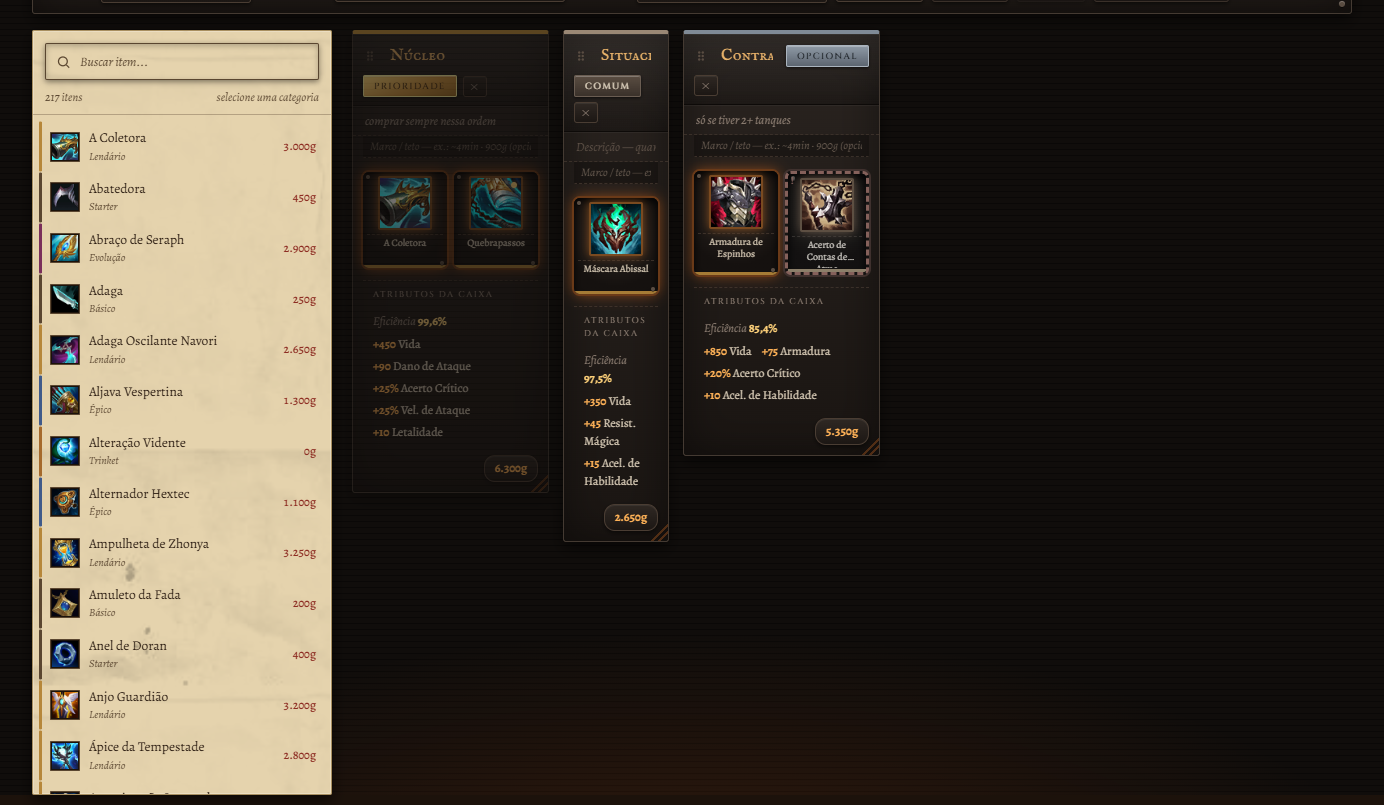
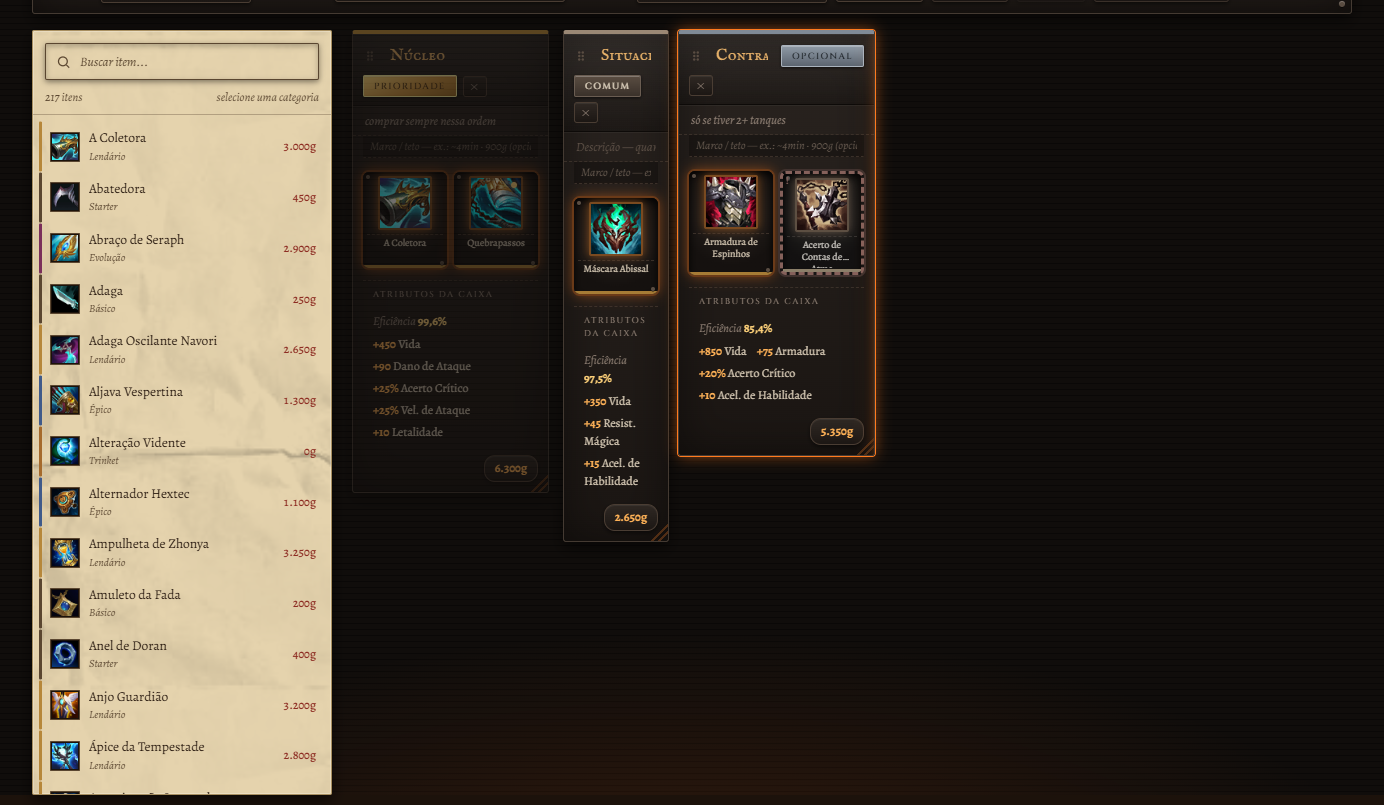
F9-T7b: marcador de brasa ao arrastar categoria (barra com brilho, vão e borda acesa na caixa alvo, como nos moldes)

Changed region(s): [[0.466, 0.0311, 0.6525, 0.5901], [0.1864, 0.559, 0.2175, 0.5901]]

diff --git a/index.html b/index.html
@@ -3600,6 +3600,16 @@ body:not(.editando) .slot-vazio { opacity: .35; }
 .som-opt input:disabled + span { opacity: .45; }
 .som-sep { border-top: 1px dashed #3a3029; margin: 4px 0; }
 body.forja .som-menu { border-top-color: #ff7a1e; }
+
+/* ---- Fase 9, T7b: marcador de brasa para a categoria, igual ao dos moldes (Leo, 15/09/2026) ---- */
+body.forja .build-cat.drop-before::before, body.forja .build-cat.drop-after::after {
+  width: 4px; background: var(--forja-brasa); border-radius: 2px;
+  box-shadow: 0 0 10px 2px var(--forja-brasa-glow), 0 0 22px var(--forja-brasa-glow);
+}
+body.forja .build-cat.drop-before::before { left: -9px; }
+body.forja .build-cat.drop-after::after { right: -9px; }
+body.forja .build-cat.drop-before { transform: translateX(5px); box-shadow: inset 0 1px 0 rgba(255,255,255,.05), inset 0 0 40px rgba(0,0,0,.45), 0 0 0 1px var(--forja-brasa), 0 0 16px var(--forja-brasa-glow); }
+body.forja .build-cat.drop-after  { transform: translateX(-5px); box-shadow: inset 0 1px 0 rgba(255,255,255,.05), inset 0 0 40px rgba(0,0,0,.45), 0 0 0 1px var(--forja-brasa), 0 0 16px var(--forja-brasa-glow); }
 </style>
 </head>
 <body>

diff --git a/CHECKPOINT.md b/CHECKPOINT.md
@@ -25,7 +25,7 @@ Especificação do Leo (15/09/2026, com docs/amostras de referência `gramatica-
 
 - **T6 — duplo clique de verdade + canais de som** (Leo, 15/09/2026, com prints: "a função de duplo clique não está funcionando… e precisa adicionar mais opções de mute, tenho amigos que mutaram tudo só para mutar o shopkeeper; o ícone de sino não ajuda"). (1) Causa do duplo clique: o primeiro clique redesenhava a lista inteira, o segundo clique caía num elemento novo e o navegador não conta como dblclick (o teste da T1 passou porque disparou o evento sintético). Agora o clique só troca a seleção no lugar e redesenha o resumo. (2) Som: o sino virou **alto-falante** (ondas somem quando mudo, meia onda quando há canal mudo) e o clique abre um **painel**: Som geral, e três canais — **Interface** (cliques, hover, chips, abrir/fechar), **Forja** (moldes, martelo, item na build) e **Lojista** (falas) — guardados em `som.canais`; `Som.tocar` consulta o canal (`shopkeeper_*`/lojista → Lojista; `build_*`/`ui_build*` → Forja; o resto → Interface). Mapa de áudio atualizado. Verificado no navegador embutido com **duplo clique real** (mouse do painel, não evento sintético): em Minhas abre a forja, em Públicas abre a visualização temporária; painel de som abre, Lojista mudo bloqueia `shopkeeper_tag_open_*` enquanto `ui_catalog_tag_select` toca, religar volta; `som.canais` gravado; 0 erros de console. Captura `docs/screenshots/fase9-tarefa6-som.png`. Aprovado pelo Leo em 15/09/2026. Commit "F9-T6".
 
-- **T7 — arrastar categoria solta em qualquer ponto** (Leo, 15/09/2026, com print: "o drag and drop também vale para as categorias, tentei e não foi"). Diagnóstico com arraste nativo (CDP): soltar a categoria **sobre outra caixa** sempre funcionou (corpo, cabeçalho, nome, tipo — 6 casos conferidos); o que falhava era soltar **no vazio** da bancada, que ficou grande depois que as caixas passaram a ter largura justa. Agora, arrastando uma categoria, o `dragover`/`drop` aceitam qualquer ponto do canvas: o alvo é a caixa mais próxima na mesma linha (ou a mais próxima de todas), antes ou depois conforme a metade; o marcador de brasa aparece nela. Verificado no Chrome real: 1ª caixa solta à direita da última → vai para o fim; 3ª solta no vão entre a 1ª e a 2ª → entra entre elas; 0 erros de console. Captura `docs/screenshots/fase9-tarefa7-categoria-vazio.png`. Aprovado pelo Leo em 15/09/2026. Commit "F9-T7".
+- **T7 — arrastar categoria solta em qualquer ponto** (Leo, 15/09/2026, com print: "o drag and drop também vale para as categorias, tentei e não foi"). Diagnóstico com arraste nativo (CDP): soltar a categoria **sobre outra caixa** sempre funcionou (corpo, cabeçalho, nome, tipo — 6 casos conferidos); o que falhava era soltar **no vazio** da bancada, que ficou grande depois que as caixas passaram a ter largura justa. Agora, arrastando uma categoria, o `dragover`/`drop` aceitam qualquer ponto do canvas: o alvo é a caixa mais próxima na mesma linha (ou a mais próxima de todas), antes ou depois conforme a metade; o marcador de brasa aparece nela. Verificado no Chrome real: 1ª caixa solta à direita da última → vai para o fim; 3ª solta no vão entre a 1ª e a 2ª → entra entre elas; 0 erros de console. Captura `docs/screenshots/fase9-tarefa7-categoria-vazio.png`. Aprovado pelo Leo em 15/09/2026. Commit "F9-T7". Ajuste (Leo, 15/09/2026: "melhor ter as bordas laranja, como nos itens, para saber onde vai ficar a categoria"): o marcador da categoria virou a mesma barra de brasa com brilho dos moldes, a caixa alvo abre um vão de 5 px para o lado e acende a borda em brasa. Captura refeita. Aprovado pelo Leo em 15/09/2026. Commit "F9-T7b".
 
 ### Fase 8 — Builds publicadas
 - T1 — Tela "Builds" sem servidor (14/09/2026, a partir dos três prints do Deadlock). Aba renomeada para **Builds**; título "Builds" com abas **Minhas** (ativa) e **Públicas** (desativada até o servidor); "+ Nova build", "Importar", **Filtrar por marcador** (painel com campeão do filtro — só os campeões presentes nas builds —, os 13 marcadores padrão, as habilidades, que só aparecem com um campeão escolhido, e **Itens** com os ícones dos 225 itens do catálogo e uma busca — Leo, 14/09/2026: "deve aparecer o ícone de todos os itens"; filtrar por item acha a build que tem o item como marcador ou em qualquer bancada) e **busca por nome ou ID**. Layout lista + detalhe: linha com retrato, nome, etiqueta "na forja", 3 marcadores e **coração de favorita** (local, `fav`); clique seleciona, duplo clique ou Enter abre a forja. Detalhe à direita: retrato e nome, os 3 marcadores com rótulo (vazios tracejados), **Versão 0 · ID não publicada · Última atualização** (`updatedAt`, só muda quando a build muda de verdade), descrição, **itens sem os opcionais**, botões Copiar e editar · Editar · Publicar (desativado até a T3) · Excluir, e a nota do que falta para publicar (itens, nome, descrição, 3 marcadores — regra do Leo). Campo **Descrição** na forja (textarea sob o nome, editável no modo Editar; obrigatória para publicar), persistida e no texto (`DESCRIÇÃO:` numa linha, "/" separa parágrafos; importado de volta). **Chuva de entrada**: ao abrir a lista, 34 pingos aleatórios revelam a tela por máscara de círculos crescendo (~0,9 s; JS sobre o DOM; respeita prefers-reduced-motion). Verificado no navegador embutido: 7 builds, seleção e detalhe (Ornn: 11 itens sem opcionais, 3 marcadores), filtro Ornn · AD → 1 build com as 4 habilidades no painel, busca por ID "b-captura" → 1, descrição salva/exportada/importada; 0 erros de console. Capturas `docs/screenshots/fase8-tarefa1-builds.png` e `fase8-tarefa1b-chuva.png`. Aprovado pelo Leo em 14/09/2026. Commit "F8-T1".
@@ -107,7 +107,7 @@ Especificação do Leo (15/09/2026, com docs/amostras de referência `gramatica-
 - T4 — Pages testado (`docs/screenshots/fase0-tarefa4-pages.png`): deploy no ar 30 s após o push; index.html, data/catalog.js, textura, áudio e .nojekyll respondem 200 em https://dksaxton.github.io/montador_de_itens_lol/; DOM do site publicado com 225 cards e contador 225 (Chrome headless — o navegador embutido não tem permissão para o domínio github.io). Do disco (file://) também 225. FASE 0 CONCLUÍDA em 13/09/2026.
 
 ## 3. Em andamento
-Fase 8: T1 feita (14/09/2026). Bloqueada em dois itens do Leo: print do menu "Publicar" do Deadlock (antes da T3) e projeto no Supabase (URL + chave anon, para a T2). Nada em andamento. Fase 9 T1–T7 aprovadas e publicadas (15/09/2026). SQL da Fase 9 já rodado pelo Leo e conferido pela API em 15/09/2026: a view tem `layout` e `publicar_build` aceita `p_layout` (teste publicado como "trilha" e apagado). T1–T5 aprovadas e publicadas (15/09/2026). Pendente do Leo: rodar o SQL da Fase 9 no Supabase (coluna layout); até lá a publicação vai sem o layout, sem erro. T1 aprovada em 15/09/2026. T2: a amostra dos quatro layouts em docs/amostras, com dados reais do catálogo — precisa da decisão do Leo sobre a caixa "Escolha 1" e o teto/marco por caixa (proposta na seção da Fase 9). Fase 8 T1–T7 aprovadas e publicadas (14/09/2026). Publicações de teste apagadas do servidor em 14/09/2026 a pedido do Leo (o site começa vazio). Pendências só a pedido: autor opcional na publicação; limpeza automática dos eventos (docs/servidor/limpeza.sql). Fila: Fase 8 — Builds publicadas (ver seção 4), começando pela T1 (link com a build no #hash) quando o Leo pedir; a pausa para o print do menu de publicação do Deadlock continua obrigatória antes de desenhar a publicação.
+Fase 8: T1 feita (14/09/2026). Bloqueada em dois itens do Leo: print do menu "Publicar" do Deadlock (antes da T3) e projeto no Supabase (URL + chave anon, para a T2). Nada em andamento. Fase 9 T1–T7b aprovadas e publicadas (15/09/2026). SQL da Fase 9 já rodado pelo Leo e conferido pela API em 15/09/2026: a view tem `layout` e `publicar_build` aceita `p_layout` (teste publicado como "trilha" e apagado). T1–T5 aprovadas e publicadas (15/09/2026). Pendente do Leo: rodar o SQL da Fase 9 no Supabase (coluna layout); até lá a publicação vai sem o layout, sem erro. T1 aprovada em 15/09/2026. T2: a amostra dos quatro layouts em docs/amostras, com dados reais do catálogo — precisa da decisão do Leo sobre a caixa "Escolha 1" e o teto/marco por caixa (proposta na seção da Fase 9). Fase 8 T1–T7 aprovadas e publicadas (14/09/2026). Publicações de teste apagadas do servidor em 14/09/2026 a pedido do Leo (o site começa vazio). Pendências só a pedido: autor opcional na publicação; limpeza automática dos eventos (docs/servidor/limpeza.sql). Fila: Fase 8 — Builds publicadas (ver seção 4), começando pela T1 (link com a build no #hash) quando o Leo pedir; a pausa para o print do menu de publicação do Deadlock continua obrigatória antes de desenhar a publicação.
 
 Dúvidas do Leo em 14/09/2026, respondidas como avaliação (sem implementar):
 1. Busca de builds publicadas com ID automático e nome (como o Deadlock): precisa de um servidor/banco compartilhado — o app é estático no Pages. Caminhos: (a) link com a build codificada no `#hash` (sem backend, sem busca, dá para fazer já); (b) backend gratuito escolhido pelo Leo (ex.: Supabase/Firebase) com ID gerado lá e busca por nome/ID — feature de um Capítulo 3.
